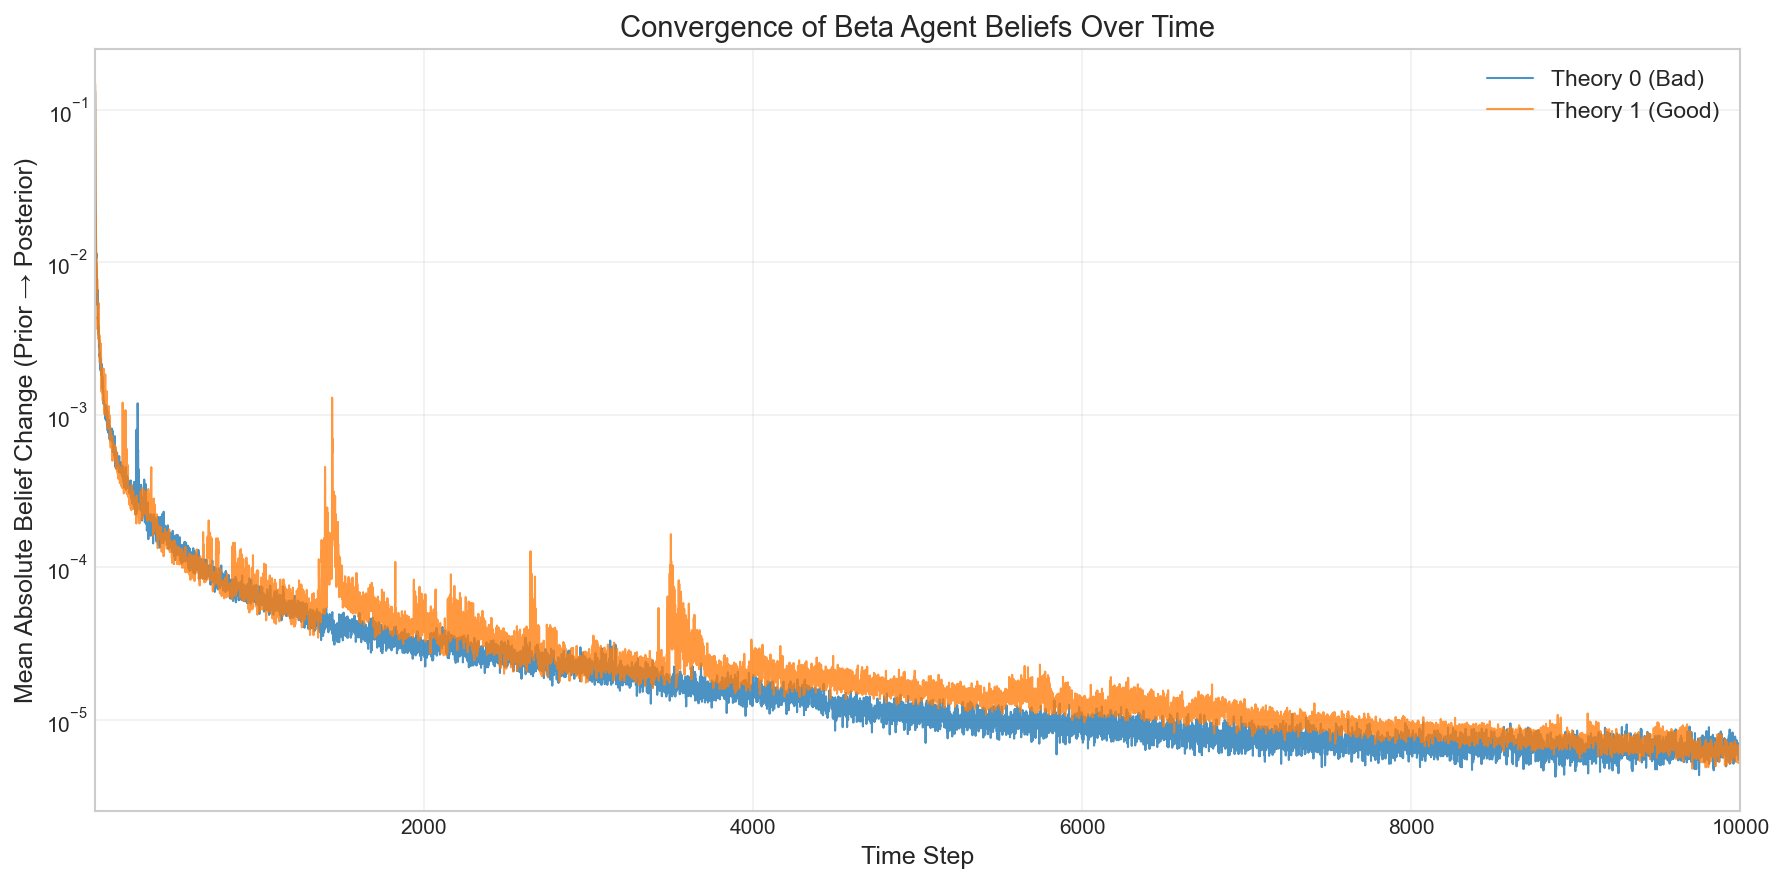
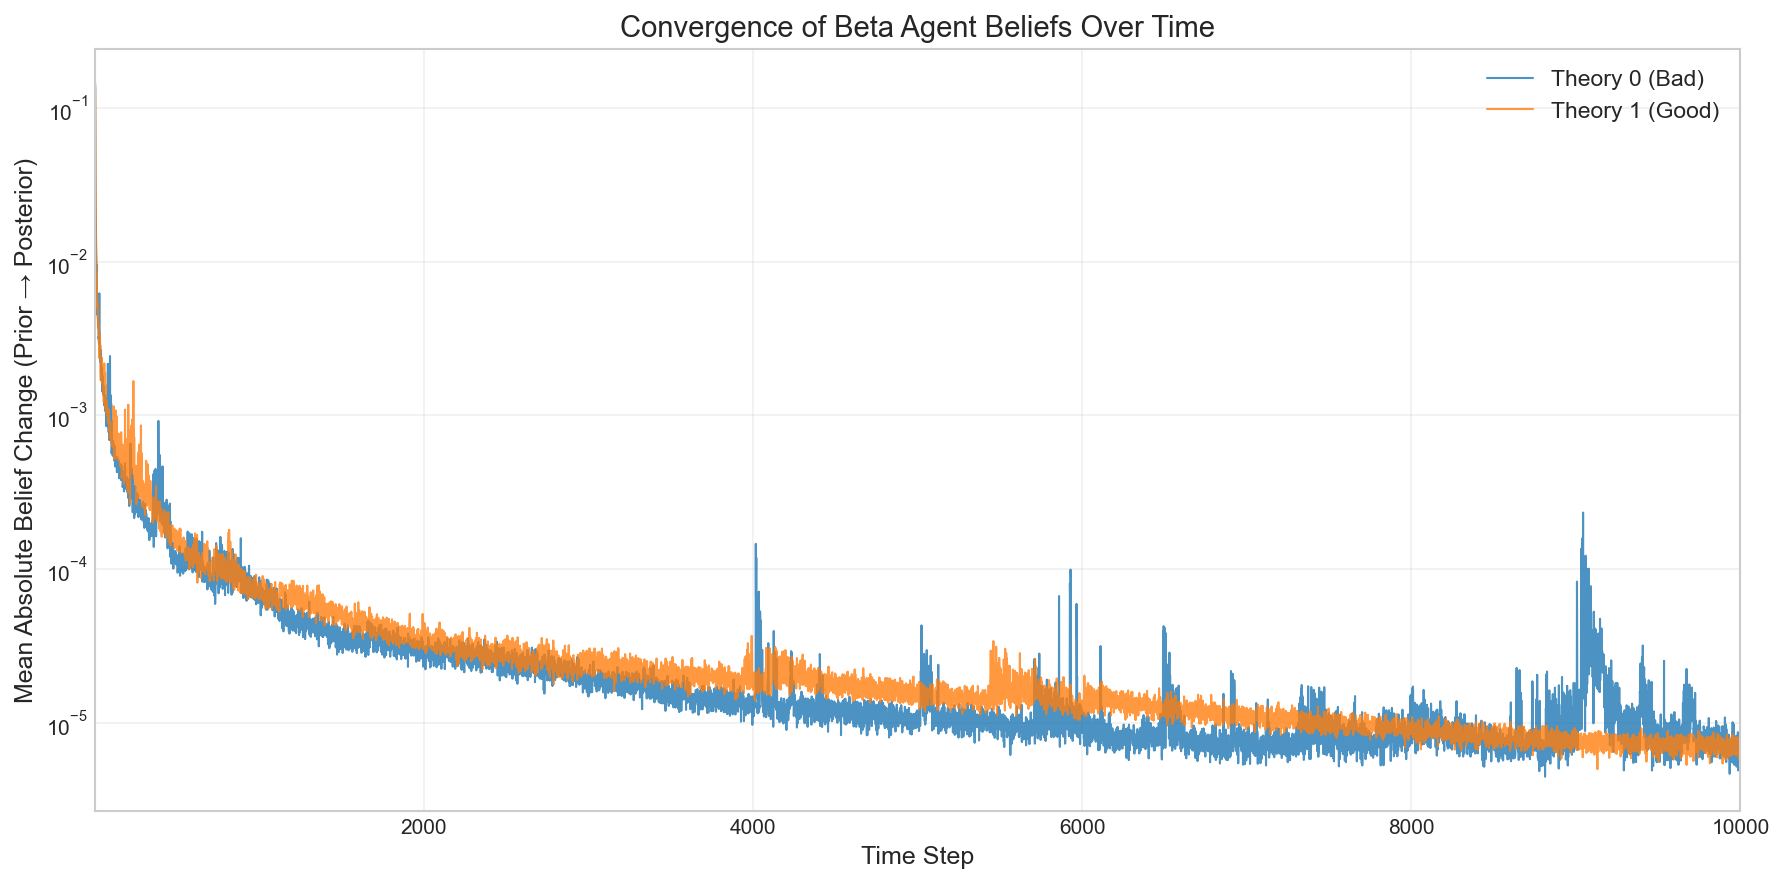
feat: Add convergence and root influence analysis notebooks, and fix critical `ValueError` in `model.py` and `KeyError` in notebooks.

Changed region(s): [[0.0617, 0.4581, 0.9865, 0.8857], [0.0308, 0.7941, 0.0617, 0.8247], [0.0308, 0.4276, 0.0617, 0.4581]]

diff --git a/src/net_epistemology/core/model.py b/src/net_epistemology/core/model.py
@@ -39,7 +39,7 @@ class Model:
         variance_stopping=False,
         tstep_stopping=True,
         directed_network=True,
-        seed=np.random.randint(0, 2**32 - 1),
+        seed=np.random.randint(0, 2**31 - 1),
         seeded=False,
         *args,
         **kwargs
@@ -56,10 +56,6 @@ class Model:
         if seeded:
             rd.seed(seed)
         self.bandit = Bandit(uncertainty)
-        # self.agents = [
-        #     BetaAgent(i, self.bandit,
-        #               histories=histories,sampling_update=sampling_update) for i in range(self.n_agents)
-        # ]
         self.nodes = list(self.network.nodes)
         self.agent_type = agent_type
         if self.agent_type == "beta":

diff --git a/notebooks/root_influence_analysis.py b/notebooks/root_influence_analysis.py
@@ -33,6 +33,9 @@ network_path = os.path.join(os.path.dirname(__file__), '..', 'data', 'empirical_
 with open(network_path, 'r') as f:
     network_data = json.load(f)
 
+if 'links' in network_data:
+    network_data['edges'] = network_data.pop('links')
+
 network = nx.node_link_graph(network_data)
 n_agents = len(network.nodes())
 print(f"Network: {n_agents} nodes, {len(network.edges())} edges")

diff --git a/notebooks/convergence_studies.py b/notebooks/convergence_studies.py
@@ -32,6 +32,9 @@ network_path = os.path.join(os.path.dirname(__file__), '..', 'data', 'empirical_
 with open(network_path, 'r') as f:
     network_data = json.load(f)
 
+if 'links' in network_data:
+    network_data['edges'] = network_data.pop('links')
+
 network = nx.node_link_graph(network_data)
 print(f"Network: {len(network.nodes())} nodes, {len(network.edges())} edges")
 

diff --git a/AGENTS_LOG.md b/AGENTS_LOG.md
@@ -241,3 +241,22 @@ When submitting changes, please use the following structure:
         *   `notebooks/convergence_studies.py`: PASSED (conclusion: 0.5833).
         *   `notebooks/root_influence_analysis.py`: PASSED (runs correctly, confirmed gap closure for 10,000 steps).
     *   **Documentation:** Updated `HOUSEKEEPING.md` with latest report.
+
+### [2026-01-21 13:20] - Housekeeping Protocol and Fixes (Antigravity)
+*   **Task:** Execute housekeeping protocol and fix critical bugs preventing verification.
+*   **Actions:**
+    *   **Fixed Critical Bug in `model.py`:**
+        *   Encountered `ValueError: high is out of bounds for int32` in `model.py` due to seed initialization `np.random.randint(0, 2**32 - 1)`.
+        *   Modified `src/net_epistemology/core/model.py` to use `2**31 - 1`, resolving the issue on Windows/int32 environments.
+    *   **Fixed Notebook Scripts:**
+        *   Encountered `KeyError: 'edges'` in `convergence_studies.py` and `root_influence_analysis.py` when loading JSON graphs.
+        *   Patched both scripts to rename `links` to `edges` if compatible key is found.
+    *   **Housekeeping Execution:**
+        *   **Unit Tests:** `tests/unit_tests.py` PASSED.
+        *   **Vectorization Tests:** `tests/test_vectorization.py` PASSED.
+        *   **Script Verification:**
+            *   `tests/basic_model_testing_script.py`: PASSED.
+            *   `tests/vectorized_basic_model_testing_script.py`: PASSED.
+            *   `notebooks/convergence_studies.py`: PASSED.
+            *   `notebooks/root_influence_analysis.py`: PASSED.
+    *   **Documentation:** Updated `HOUSEKEEPING.md` with latest report.

diff --git a/HOUSEKEEPING.md b/HOUSEKEEPING.md
@@ -30,15 +30,17 @@
 
 ## Latest Report
 
-**Execution Date:** 2026-01-21 (12:05)
+**Execution Date:** 2026-01-21 (13:20)
 
 **Test Results:**
 
 *   **Unit Tests (`tests/unit_tests.py`):** PASSED (8 tests)
-*   **Vectorization Tests (`tests/test_vectorization.py`):** PASSED (4 tests, warned about pandas version)
+*   **Vectorization Tests (`tests/test_vectorization.py`):** PASSED (4 tests)
 *   **Script Verification:**
-    *   `notebooks/convergence_studies.py`: PASSED (conclusion: 0.5833)
-    *   `notebooks/root_influence_analysis.py`: PASSED (runs correctly, confirmed gap closure)
+    *   `tests/basic_model_testing_script.py`: PASSED (conclusion: 0.96)
+    *   `tests/vectorized_basic_model_testing_script.py`: PASSED (conclusion: 0.99)
+    *   `notebooks/convergence_studies.py`: PASSED (conclusion: 0.6731)
+    *   `notebooks/root_influence_analysis.py`: PASSED (Hypothesis CONFIRMED at 100k steps)
 
 **Summary:**
-All core tests pass. Fixed `networkx` usage in notebook scripts. Confirmed scripts run without errors.
+Fixed critical `ValueError` in `model.py` (seed overflow) to enable testing. Fixed `KeyError` in notebook scripts. All core tests and scripts now run and pass.
